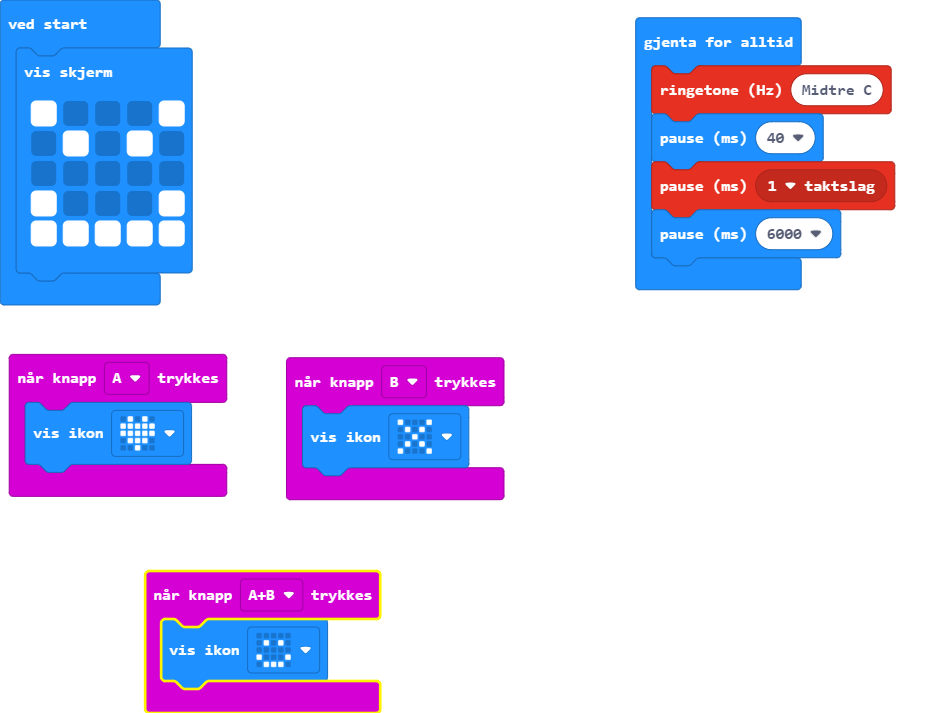
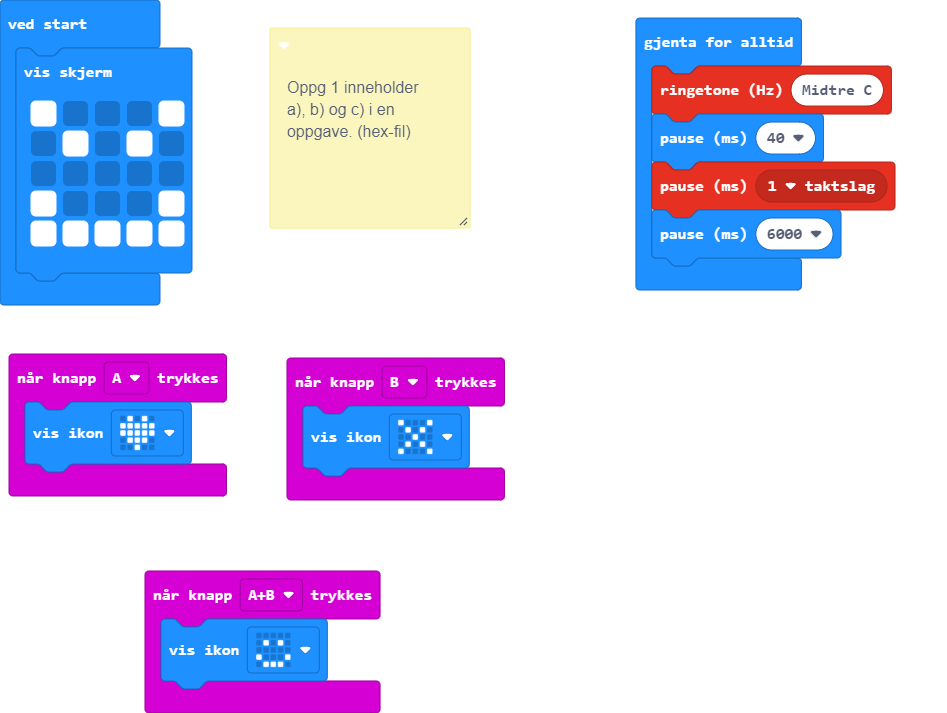
Klar til innlevering

diff --git a/main.ts b/main.ts
@@ -1,3 +1,8 @@
+/**
+ * Oppg 1 inneholder
+ * 
+ * a), b) og c) i en oppgave. (hex-fil)
+ */
 input.onButtonPressed(Button.A, function () {
     basic.showIcon(IconNames.Heart)
 })
